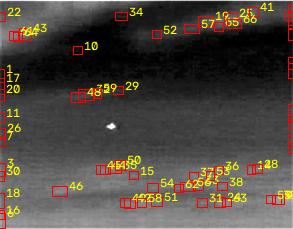
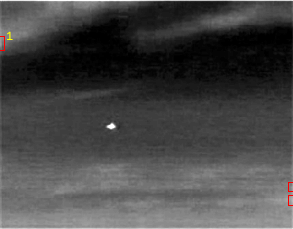
поигрался с контрастом стало лучше

diff --git a/detect_uproshennaya_selfmade.py b/detect_uproshennaya_selfmade.py
@@ -9,7 +9,7 @@ import numpy as np
 
 
 BG_WINDOW = 15  # размер окна для фона
-MIN_CONTRAST = 15  # насколько точка ярче фона
+MIN_CONTRAST = 30  # насколько точка ярче фона
 MAX_TARGET_SIZE = 9  # максимальный размер цели, пикс.
 MIN_PIXELS = 2  # минимум пикселей в цели
 
